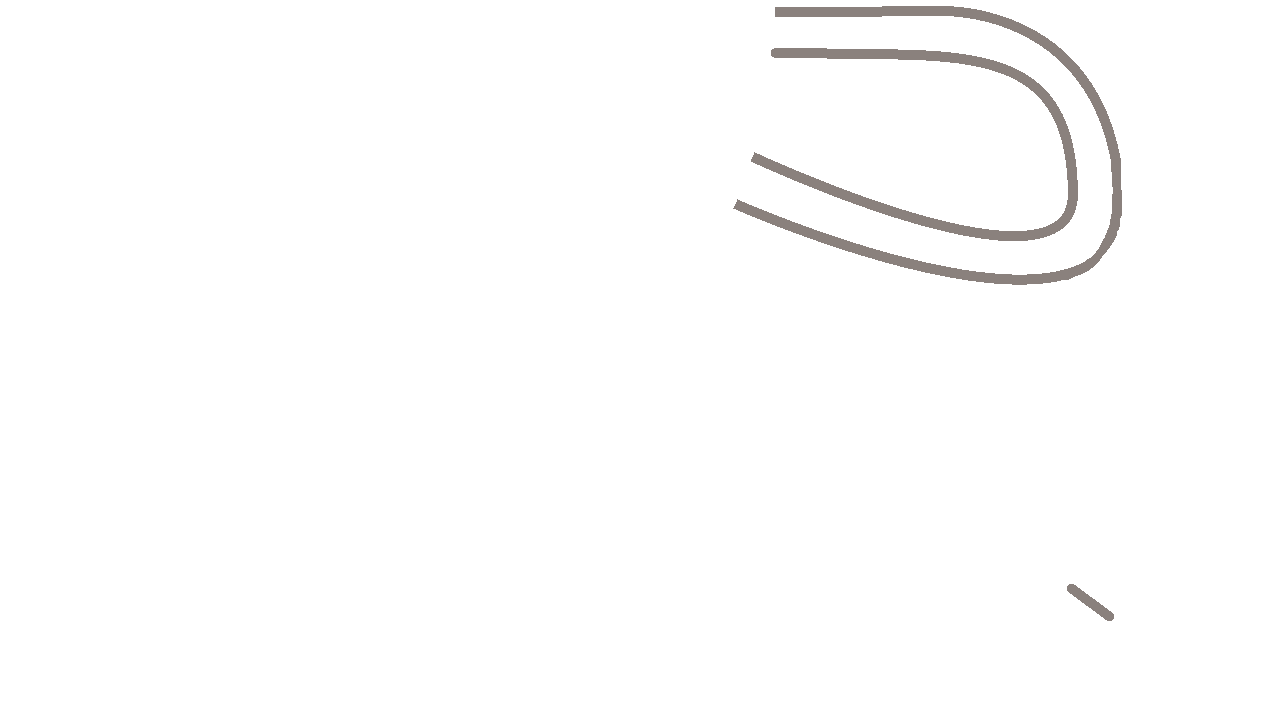
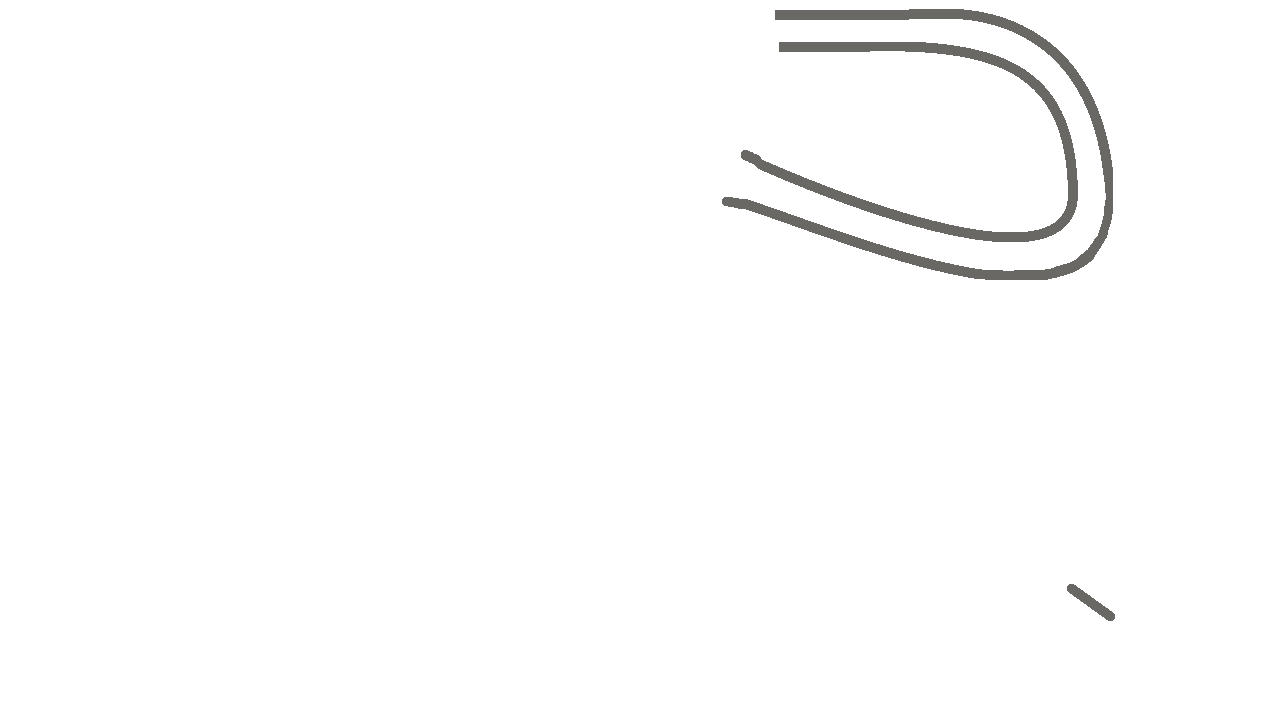
tighten rails

diff --git a/games/pinball/source/layer.h b/games/pinball/source/layer.h
@@ -30,7 +30,7 @@ class Layer {
 
         // Main table layer
         vector<float> m_launchExitLock = {1068.0, 585.4, 1066.8, 586.9, 1067.2, 589.2, 1067.5, 591.5, 1087.9, 606.2, 1108.4, 621.0, 1110.6, 621.0, 1112.8, 621.0, 1114.0, 619.6, 1115.2, 618.1, 1114.8, 615.8, 1114.5, 613.5, 1094.1, 598.8, 1073.6, 584.0, 1071.4, 584.0, 1069.2, 584.0, 1068.0, 585.4};
-        vector<float> m_upperWall = {759.0, 53.1, 749.5, 53.9, 741.5, 55.0, 733.5, 56.0, 724.0, 57.6, 714.5, 59.1, 707.5, 60.6, 700.5, 62.1, 696.5, 63.0, 692.5, 63.9, 683.0, 65.5, 673.5, 67.2, 667.0, 69.2, 660.5, 71.1, 649.5, 74.6, 638.5, 78.2, 634.0, 80.2, 629.5, 82.2, 607.3, 93.1, 585.2, 104.0, 584.2, 104.0, 580.9, 105.8, 578.5, 107.7, 574.0, 110.0, 569.5, 112.4, 564.4, 115.7, 559.2, 119.0, 558.6, 120.6, 558.0, 122.2, 558.0, 125.4, 558.0, 128.6, 560.8, 133.1, 563.6, 137.5, 567.0, 145.0, 570.4, 152.5, 573.7, 158.2, 577.1, 164.0, 579.5, 164.6, 581.9, 165.2, 588.2, 161.7, 594.5, 158.2, 601.5, 154.8, 608.5, 151.3, 611.0, 150.1, 613.5, 149.0, 616.6, 147.0, 619.7, 145.0, 629.1, 143.5, 638.5, 142.0, 646.4, 140.9, 654.2, 139.8, 669.9, 140.3, 685.5, 140.7, 694.5, 142.5, 703.5, 144.2, 711.9, 147.1, 720.3, 150.0, 721.9, 150.0, 723.5, 150.0, 732.5, 153.6, 741.5, 157.1, 746.8, 159.7, 752.1, 162.2, 756.8, 164.0, 761.5, 165.8, 766.5, 167.5, 771.5, 169.3, 774.0, 170.2, 776.5, 171.0, 780.3, 174.7, 784.2, 178.3, 783.5, 180.4, 782.9, 182.5, 782.0, 185.5, 781.2, 188.5, 779.1, 192.5, 777.0, 196.4, 777.0, 198.2, 777.0, 200.0, 775.4, 203.9, 773.9, 207.8, 770.9, 209.0, 768.0, 210.2, 763.5, 209.6, 759.0, 208.9, 757.4, 207.2, 755.7, 205.5, 751.6, 203.7, 747.5, 201.8, 737.0, 199.8, 726.5, 197.8, 719.0, 197.4, 711.5, 196.9, 704.0, 197.9, 696.5, 198.9, 688.1, 201.3, 679.7, 203.6, 673.5, 208.7, 667.3, 213.8, 661.2, 220.9, 655.1, 227.9, 650.1, 235.3, 645.1, 242.8, 640.1, 252.2, 635.0, 261.7, 635.0, 264.6, 635.0, 267.5, 661.3, 301.5, 687.5, 335.5, 690.7, 335.8, 693.9, 336.1, 710.8, 327.6, 727.7, 319.0, 738.2, 308.2, 748.6, 297.4, 753.5, 290.4, 758.3, 283.5, 764.4, 275.0, 770.5, 266.5, 778.3, 251.0, 786.2, 235.5, 794.1, 214.0, 802.1, 192.5, 803.7, 188.0, 805.2, 183.5, 810.9, 172.5, 816.5, 161.5, 821.5, 154.0, 826.5, 146.6, 832.5, 140.6, 838.5, 134.7, 846.5, 128.0, 854.5, 121.3, 860.5, 117.3, 866.5, 113.3, 872.5, 110.2, 878.5, 107.2, 884.0, 105.5, 889.5, 103.7, 927.0, 103.3, 964.5, 102.8, 972.0, 104.4, 979.5, 106.0, 986.5, 109.5, 993.5, 112.9, 999.2, 117.5, 1004.9, 122.1, 1010.0, 128.8, 1015.0, 135.5, 1017.1, 139.8, 1019.3, 144.2, 1020.8, 144.8, 1022.3, 145.3, 1040.9, 143.6, 1059.5, 141.9, 1064.8, 140.9, 1070.0, 139.9, 1070.0, 137.8, 1070.0, 135.8, 1068.4, 129.6, 1066.8, 123.5, 1063.4, 116.2, 1060.0, 108.8, 1055.6, 102.7, 1051.2, 96.5, 1043.9, 89.4, 1036.5, 82.4, 1030.5, 78.3, 1024.5, 74.3, 1016.4, 70.2, 1008.3, 66.2, 997.8, 62.6, 987.2, 59.1, 977.4, 57.1, 967.5, 55.1, 959.5, 53.9, 951.5, 52.7, 860.0, 52.5, 768.5, 52.2, 759.0, 53.1};
+        vector<float> m_upperWall = {759.0, 53.1, 749.5, 53.9, 741.5, 55.0, 733.5, 56.0, 724.0, 57.6, 714.5, 59.1, 707.5, 60.6, 700.5, 62.1, 696.5, 63.0, 692.5, 63.9, 683.0, 65.5, 673.5, 67.2, 667.0, 69.2, 660.5, 71.1, 649.5, 74.6, 638.5, 78.2, 634.0, 80.2, 629.5, 82.2, 607.3, 93.1, 585.2, 104.0, 584.2, 104.0, 580.9, 105.8, 578.5, 107.7, 574.0, 110.0, 569.5, 112.4, 564.4, 115.7, 559.2, 119.0, 558.6, 120.6, 558.0, 122.2, 558.0, 125.4, 558.0, 128.6, 560.8, 133.1, 563.6, 137.5, 567.0, 145.0, 570.4, 152.5, 573.7, 158.2, 577.1, 164.0, 579.5, 164.6, 581.9, 165.2, 588.2, 161.7, 594.5, 158.2, 601.5, 154.8, 608.5, 151.3, 611.0, 150.1, 613.5, 149.0, 616.6, 147.0, 619.7, 145.0, 629.1, 143.5, 638.5, 142.0, 646.4, 140.9, 654.2, 139.8, 669.9, 140.3, 685.5, 140.7, 694.4, 142.4, 703.3, 144.2, 718.9, 149.4, 734.5, 154.7, 740.0, 157.5, 745.5, 160.3, 750.5, 163.6, 755.5, 166.8, 762.0, 170.4, 768.5, 174.0, 775.7, 177.6, 782.9, 181.2, 782.3, 184.4, 781.7, 187.5, 779.3, 191.9, 777.0, 196.3, 777.0, 198.2, 777.0, 200.1, 775.6, 203.5, 774.1, 206.9, 767.3, 204.9, 760.5, 202.9, 749.1, 200.0, 737.8, 197.0, 723.6, 197.1, 709.5, 197.1, 703.0, 198.0, 696.5, 198.9, 688.1, 201.3, 679.7, 203.6, 673.5, 208.7, 667.3, 213.8, 661.2, 220.9, 655.1, 227.9, 650.1, 235.3, 645.1, 242.8, 640.1, 252.2, 635.0, 261.7, 635.0, 264.6, 635.0, 267.5, 661.3, 301.5, 687.5, 335.5, 690.7, 335.8, 693.9, 336.1, 710.8, 327.6, 727.7, 319.0, 738.2, 308.2, 748.6, 297.4, 753.5, 290.4, 758.3, 283.5, 764.4, 275.0, 770.5, 266.5, 778.3, 251.0, 786.2, 235.5, 794.1, 214.0, 802.1, 192.5, 803.7, 188.0, 805.2, 183.5, 810.9, 172.5, 816.5, 161.5, 821.5, 154.0, 826.5, 146.6, 832.5, 140.6, 838.5, 134.7, 846.5, 128.0, 854.5, 121.3, 860.5, 117.3, 866.5, 113.3, 872.5, 110.2, 878.5, 107.2, 884.0, 105.5, 889.5, 103.7, 927.0, 103.3, 964.5, 102.8, 972.0, 104.4, 979.5, 106.0, 986.5, 109.5, 993.5, 112.9, 999.2, 117.5, 1004.9, 122.1, 1010.0, 128.8, 1015.0, 135.5, 1017.1, 139.8, 1019.3, 144.2, 1020.8, 144.8, 1022.3, 145.3, 1040.9, 143.6, 1059.5, 141.9, 1064.8, 140.9, 1070.0, 139.9, 1070.0, 137.8, 1070.0, 135.8, 1068.4, 129.6, 1066.8, 123.5, 1063.4, 116.2, 1060.0, 108.8, 1055.6, 102.7, 1051.2, 96.5, 1043.9, 89.4, 1036.5, 82.4, 1030.5, 78.3, 1024.5, 74.3, 1016.4, 70.2, 1008.3, 66.2, 997.8, 62.6, 987.2, 59.1, 977.4, 57.1, 967.5, 55.1, 959.5, 53.9, 951.5, 52.7, 860.0, 52.5, 768.5, 52.2, 759.0, 53.1};
         vector<float> m_leftSlide = {125.0, 51.1, 122.5, 52.1, 119.7, 54.8, 116.9, 57.5, 114.5, 62.1, 112.2, 66.7, 108.9, 76.6, 105.7, 86.5, 104.4, 88.5, 103.2, 90.5, 101.5, 96.5, 99.8, 102.5, 99.5, 104.2, 99.1, 105.8, 96.4, 114.2, 93.7, 122.5, 92.8, 123.7, 91.9, 124.8, 89.5, 132.2, 87.2, 139.5, 83.5, 149.0, 79.9, 158.5, 77.5, 165.0, 75.1, 171.5, 72.6, 178.5, 70.0, 185.5, 68.8, 187.5, 67.7, 189.5, 64.3, 198.0, 61.0, 206.4, 61.8, 207.2, 62.6, 208.0, 67.5, 206.3, 72.4, 204.7, 76.6, 205.8, 80.8, 206.9, 84.6, 209.5, 88.3, 212.0, 91.5, 212.0, 94.7, 212.0, 96.7, 209.7, 98.8, 207.5, 100.8, 202.5, 102.9, 197.5, 106.5, 188.0, 110.0, 178.5, 112.5, 172.0, 115.0, 165.5, 118.5, 156.0, 122.0, 146.5, 124.5, 140.0, 127.0, 133.5, 130.5, 124.3, 134.0, 115.0, 136.1, 108.3, 138.2, 101.5, 142.2, 89.5, 146.3, 77.5, 149.0, 71.4, 151.7, 65.3, 154.1, 63.1, 156.5, 60.8, 160.0, 59.1, 163.5, 57.5, 223.4, 57.0, 283.3, 56.5, 284.3, 54.8, 285.4, 53.2, 284.1, 51.6, 282.8, 50.0, 205.1, 50.1, 127.5, 50.1, 125.0, 51.1};
         vector<float> m_rightSlide = {85.2, 461.4, 82.0, 464.8, 77.4, 466.0, 72.8, 467.3, 67.7, 465.7, 62.6, 464.0, 61.8, 464.8, 61.0, 465.6, 64.3, 474.0, 67.7, 482.5, 68.8, 484.5, 70.0, 486.5, 72.6, 493.5, 75.1, 500.5, 77.5, 507.0, 79.9, 513.5, 83.5, 523.0, 87.2, 532.5, 89.5, 539.8, 91.9, 547.2, 92.8, 548.3, 93.7, 549.5, 96.4, 557.8, 99.1, 566.2, 99.5, 567.8, 99.8, 569.5, 101.5, 575.5, 103.2, 581.5, 104.4, 583.5, 105.7, 585.5, 108.9, 595.4, 112.2, 605.3, 114.5, 609.9, 116.9, 614.5, 119.7, 617.2, 122.5, 619.9, 125.3, 620.9, 128.1, 622.0, 205.4, 622.0, 282.8, 622.0, 284.1, 620.4, 285.4, 618.8, 284.3, 617.2, 283.3, 615.5, 223.4, 615.0, 163.5, 614.5, 160.0, 612.9, 156.5, 611.2, 154.1, 608.9, 151.7, 606.7, 149.0, 600.6, 146.3, 594.5, 142.2, 582.5, 138.2, 570.5, 136.1, 563.7, 134.0, 557.0, 130.5, 547.7, 127.0, 538.5, 124.5, 532.0, 122.0, 525.5, 118.5, 516.0, 115.0, 506.5, 112.5, 500.0, 110.0, 493.5, 106.5, 484.0, 102.9, 474.5, 99.6, 466.5, 96.3, 458.5, 92.4, 458.2, 88.5, 458.0, 85.2, 461.4};
         vector<float> m_leftSlideLine = {176.9, 88.6, 175.6, 90.2, 176.7, 91.8, 177.7, 93.5, 217.5, 93.5, 257.3, 93.5, 258.3, 91.8, 259.4, 90.2, 258.1, 88.6, 256.8, 87.0, 217.5, 87.0, 178.2, 87.0, 176.9, 88.6};
@@ -42,8 +42,8 @@ class Layer {
         };
 
         // Layer 2 shapes.
-        vector<float> m_innerRails = {772.8, 49.0, 771.0, 50.1, 771.0, 53.0, 771.0, 55.9, 772.8, 56.9, 774.5, 57.8, 830.0, 58.4, 885.5, 59.1, 911.0, 60.1, 936.5, 61.0, 949.9, 62.5, 963.3, 64.0, 975.6, 66.5, 987.8, 69.0, 998.9, 72.9, 1010.1, 76.8, 1017.6, 81.1, 1025.1, 85.4, 1031.6, 90.8, 1038.1, 96.1, 1042.8, 102.1, 1047.5, 108.1, 1051.7, 115.8, 1056.0, 123.5, 1059.0, 132.6, 1062.0, 141.6, 1064.0, 151.6, 1065.9, 161.5, 1067.1, 174.9, 1068.3, 188.4, 1067.7, 195.9, 1067.1, 203.5, 1065.5, 208.1, 1063.9, 212.8, 1060.4, 216.9, 1056.9, 220.9, 1049.7, 224.5, 1042.5, 228.0, 1033.6, 229.5, 1024.7, 231.0, 1013.6, 231.0, 1002.5, 231.0, 993.5, 230.0, 984.5, 229.0, 972.5, 226.9, 960.5, 224.9, 944.2, 221.0, 927.9, 217.0, 917.2, 213.9, 906.5, 210.8, 888.0, 204.8, 869.5, 198.7, 852.5, 192.5, 835.5, 186.2, 815.5, 178.2, 795.5, 170.2, 780.5, 163.7, 765.5, 157.2, 760.0, 154.7, 754.4, 152.2, 752.6, 156.7, 750.8, 161.1, 770.1, 170.1, 788.5, 178.1, 813.0, 188.0, 837.5, 197.8, 860.1, 205.9, 882.7, 213.9, 901.1, 219.5, 919.5, 225.1, 937.5, 229.6, 955.5, 234.1, 969.0, 236.4, 982.5, 238.8, 993.8, 240.0, 1005.1, 241.3, 1019.3, 240.7, 1033.5, 240.2, 1041.2, 238.1, 1048.9, 236.1, 1054.6, 233.3, 1060.3, 230.5, 1064.9, 226.4, 1069.6, 222.2, 1072.3, 217.3, 1074.9, 212.3, 1076.5, 205.9, 1078.0, 199.5, 1078.0, 192.0, 1078.0, 184.5, 1076.9, 172.5, 1075.9, 160.5, 1073.5, 148.3, 1071.0, 136.2, 1068.4, 128.8, 1065.8, 121.5, 1062.3, 114.6, 1058.9, 107.7, 1055.2, 102.1, 1051.6, 96.5, 1044.0, 88.9, 1036.5, 81.3, 1030.5, 77.3, 1024.5, 73.3, 1017.2, 69.6, 1009.8, 65.9, 999.7, 62.5, 989.5, 59.1, 977.0, 56.6, 964.5, 54.1, 951.0, 52.6, 937.5, 51.0, 911.5, 50.1, 885.5, 49.1, 830.0, 48.5, 774.5, 47.9, 772.8, 49.0};
-        vector<float> m_outerRails = {828.8, 6.7, 775.0, 7.0, 775.0, 12.2, 775.0, 17.3, 862.8, 16.6, 950.5, 15.9, 962.5, 17.5, 974.5, 19.1, 986.1, 22.0, 997.7, 24.9, 1008.1, 29.0, 1018.5, 33.1, 1026.0, 37.1, 1033.5, 41.2, 1041.9, 46.8, 1050.2, 52.4, 1060.1, 61.8, 1070.0, 71.2, 1076.8, 80.4, 1083.7, 89.5, 1087.4, 95.7, 1091.1, 101.9, 1094.9, 110.2, 1098.7, 118.5, 1101.5, 126.0, 1104.2, 133.5, 1107.1, 144.5, 1110.1, 155.5, 1111.4, 172.6, 1112.8, 189.8, 1111.9, 203.6, 1111.1, 217.5, 1110.1, 222.0, 1109.1, 226.5, 1107.5, 230.5, 1105.8, 234.5, 1102.3, 241.5, 1098.7, 248.5, 1095.8, 252.3, 1092.8, 256.0, 1087.5, 259.5, 1082.2, 263.1, 1076.3, 265.5, 1070.4, 267.9, 1062.4, 269.9, 1054.5, 271.9, 1046.5, 272.9, 1038.5, 273.9, 1029.0, 274.5, 1019.5, 275.1, 1003.6, 274.0, 987.6, 272.9, 976.1, 271.5, 964.5, 270.0, 946.0, 266.4, 927.5, 262.9, 909.5, 258.4, 891.5, 253.9, 877.5, 249.8, 863.5, 245.8, 845.0, 239.8, 826.5, 233.8, 807.0, 226.8, 787.5, 219.8, 765.0, 210.8, 742.5, 201.8, 740.1, 200.5, 737.6, 199.2, 735.5, 203.9, 733.4, 208.5, 737.4, 210.3, 741.3, 212.1, 760.9, 219.9, 780.5, 227.8, 804.0, 236.3, 827.5, 244.8, 845.0, 250.4, 862.5, 255.9, 878.0, 260.4, 893.5, 264.8, 908.5, 268.5, 923.5, 272.2, 935.4, 274.6, 947.3, 277.0, 958.9, 279.0, 970.5, 280.9, 984.5, 282.6, 998.5, 284.2, 1019.0, 284.2, 1039.5, 284.2, 1050.0, 282.5, 1060.5, 280.8, 1065.0, 280.0, 1069.5, 279.2, 1077.9, 275.6, 1086.3, 272.0, 1090.2, 269.4, 1094.0, 266.7, 1097.3, 263.0, 1100.5, 259.3, 1105.3, 253.3, 1110.0, 247.2, 1113.5, 241.4, 1117.0, 235.6, 1117.0, 233.9, 1117.0, 232.2, 1118.5, 229.4, 1120.0, 226.5, 1120.0, 223.1, 1120.0, 219.6, 1121.1, 216.5, 1122.2, 213.5, 1121.2, 184.0, 1120.2, 154.5, 1117.6, 144.5, 1114.9, 134.5, 1111.9, 125.5, 1108.8, 116.5, 1103.9, 106.2, 1099.0, 95.8, 1095.3, 89.7, 1091.7, 83.5, 1084.9, 74.4, 1078.1, 65.3, 1067.2, 54.8, 1056.2, 44.4, 1046.0, 37.6, 1035.8, 30.8, 1023.7, 25.0, 1011.5, 19.2, 1000.0, 15.6, 988.5, 11.9, 979.0, 10.0, 969.5, 8.1, 959.8, 7.1, 950.1, 6.0, 916.3, 6.2, 882.5, 6.5, 828.8, 6.7};
+        vector<float> m_innerRails = {779.0, 47.2, 779.0, 52.3, 839.8, 51.7, 900.5, 51.2, 917.0, 52.1, 933.5, 53.0, 946.0, 54.6, 958.5, 56.1, 969.9, 58.6, 981.3, 61.2, 991.4, 64.7, 1001.5, 68.2, 1009.7, 72.5, 1018.0, 76.9, 1023.9, 81.4, 1029.8, 85.9, 1035.4, 91.7, 1041.1, 97.5, 1045.4, 104.0, 1049.8, 110.5, 1052.9, 116.8, 1056.1, 123.2, 1059.0, 132.0, 1061.9, 140.9, 1063.9, 151.2, 1065.9, 161.5, 1067.1, 174.9, 1068.3, 188.4, 1067.8, 196.5, 1067.2, 204.7, 1065.2, 209.3, 1063.2, 213.9, 1059.1, 218.2, 1055.1, 222.6, 1049.6, 225.3, 1044.1, 228.0, 1037.8, 229.8, 1031.5, 231.5, 1008.5, 231.4, 985.5, 231.3, 970.8, 228.7, 956.1, 226.1, 943.3, 223.1, 930.5, 220.1, 917.5, 216.5, 904.5, 213.0, 885.5, 206.9, 866.5, 200.8, 848.5, 194.3, 830.5, 187.8, 808.5, 179.0, 786.5, 170.2, 774.5, 165.0, 762.5, 159.9, 760.5, 157.5, 758.5, 155.2, 752.7, 152.6, 746.9, 150.0, 745.1, 150.0, 743.2, 150.0, 742.1, 151.4, 740.9, 152.9, 741.2, 155.7, 741.5, 158.5, 747.7, 161.5, 753.9, 164.5, 756.2, 166.8, 758.6, 169.0, 768.1, 173.1, 777.5, 177.2, 794.0, 184.0, 810.5, 190.7, 827.0, 197.0, 843.5, 203.2, 860.0, 209.0, 876.5, 214.8, 895.0, 220.3, 913.5, 225.9, 927.5, 229.5, 941.5, 233.1, 956.2, 236.0, 970.9, 239.0, 983.2, 240.5, 995.4, 242.0, 1011.5, 242.0, 1027.5, 242.0, 1036.8, 240.1, 1046.1, 238.1, 1053.5, 234.5, 1060.9, 230.8, 1066.0, 225.4, 1071.1, 220.0, 1073.5, 214.7, 1076.0, 209.4, 1077.0, 204.0, 1078.0, 198.7, 1078.0, 191.6, 1078.0, 184.5, 1077.0, 173.0, 1075.9, 161.5, 1073.9, 150.5, 1071.9, 139.6, 1068.8, 130.0, 1065.8, 120.5, 1061.3, 111.5, 1056.8, 102.5, 1052.3, 96.2, 1047.8, 89.8, 1042.1, 84.1, 1036.5, 78.4, 1029.7, 73.2, 1022.8, 68.1, 1013.2, 63.2, 1003.5, 58.2, 996.2, 55.6, 988.9, 53.0, 979.1, 50.5, 969.3, 48.0, 956.9, 46.1, 944.5, 44.1, 933.0, 43.0, 921.5, 42.0, 850.3, 42.0, 779.0, 42.0, 779.0, 47.2};
+        vector<float> m_outerRails = {842.3, 9.7, 775.0, 10.0, 775.0, 15.1, 775.0, 20.3, 872.3, 19.9, 969.5, 19.5, 980.0, 21.8, 990.5, 24.1, 1000.7, 27.5, 1010.8, 30.9, 1018.7, 34.9, 1026.6, 38.8, 1036.1, 45.1, 1045.5, 51.4, 1055.0, 61.0, 1064.5, 70.5, 1070.8, 79.8, 1077.2, 89.1, 1082.5, 99.8, 1087.8, 110.5, 1091.3, 120.6, 1094.8, 130.7, 1097.5, 141.4, 1100.1, 152.2, 1102.6, 168.7, 1105.0, 185.2, 1105.2, 193.4, 1105.4, 201.5, 1104.3, 210.0, 1103.1, 218.5, 1100.5, 227.0, 1097.8, 235.5, 1096.1, 237.5, 1094.4, 239.5, 1091.0, 244.5, 1087.6, 249.5, 1081.2, 254.9, 1074.7, 260.3, 1070.1, 262.1, 1065.5, 263.9, 1057.0, 266.6, 1048.5, 269.3, 1028.0, 270.0, 1007.5, 270.8, 992.5, 270.0, 977.5, 269.2, 962.0, 266.1, 946.5, 262.9, 930.8, 259.0, 915.1, 255.0, 899.7, 250.5, 884.3, 246.1, 865.4, 239.9, 846.5, 233.8, 796.5, 216.5, 746.5, 199.2, 736.1, 197.9, 725.8, 196.6, 724.1, 197.7, 722.5, 198.7, 722.2, 200.9, 721.8, 203.1, 722.9, 204.4, 724.0, 205.7, 733.8, 207.4, 743.5, 209.0, 767.0, 216.9, 790.5, 224.8, 822.5, 236.0, 854.5, 247.1, 875.0, 253.5, 895.5, 259.8, 908.5, 263.5, 921.5, 267.2, 935.5, 270.5, 949.5, 273.8, 963.0, 276.6, 976.5, 279.3, 1011.0, 279.8, 1045.5, 280.2, 1055.6, 277.7, 1065.6, 275.1, 1071.2, 273.0, 1076.8, 270.9, 1084.6, 265.7, 1092.4, 260.5, 1099.6, 249.0, 1106.8, 237.5, 1108.5, 231.0, 1110.3, 224.5, 1111.6, 218.5, 1113.0, 212.5, 1113.0, 190.9, 1113.0, 169.3, 1110.9, 157.0, 1108.8, 144.8, 1105.5, 132.6, 1102.2, 120.4, 1098.4, 111.0, 1094.7, 101.5, 1090.9, 93.9, 1087.1, 86.3, 1079.9, 75.4, 1072.6, 64.5, 1062.0, 54.0, 1051.5, 43.5, 1042.5, 37.4, 1033.5, 31.2, 1024.4, 26.7, 1015.4, 22.1, 1007.4, 19.2, 999.5, 16.3, 990.7, 14.1, 981.9, 11.9, 971.7, 10.5, 961.5, 9.0, 935.5, 9.3, 909.5, 9.5, 842.3, 9.7};
         vector<vector<float>> m_layer2ShapeData = {
             m_innerRails, m_outerRails
         };

diff --git a/games/pinball/source/ramp.h b/games/pinball/source/ramp.h
@@ -28,8 +28,8 @@ class Ramp {
         b2Fixture* m_fixture;
         int m_layerID;
         vector<float> m_launchTubeExitSensor = {1080.3, 555.2, 1078.3, 557.5, 1074.7, 563.0, 1071.1, 568.5, 1064.1, 575.6, 1057.0, 582.7, 1057.0, 585.2, 1057.0, 587.6, 1058.2, 588.8, 1059.4, 590.0, 1061.7, 590.0, 1064.0, 590.0, 1071.4, 582.6, 1078.8, 575.1, 1083.0, 569.0, 1087.1, 562.9, 1091.8, 565.6, 1096.5, 568.3, 1101.0, 570.8, 1105.5, 573.3, 1107.5, 574.4, 1109.5, 575.6, 1114.0, 578.4, 1118.5, 581.2, 1121.2, 583.1, 1123.9, 585.0, 1125.8, 585.0, 1127.6, 585.0, 1128.8, 583.8, 1130.0, 582.6, 1130.0, 580.4, 1130.0, 578.2, 1125.6, 574.6, 1121.1, 571.0, 1110.8, 564.8, 1100.5, 558.7, 1095.2, 555.9, 1090.0, 553.0, 1086.2, 553.0, 1082.3, 553.0, 1080.3, 555.2};
-        vector<float> m_ramp1 = {767.6, 169.2, 766.1, 171.5, 765.5, 174.5, 764.8, 177.5, 761.5, 187.0, 758.2, 196.5, 756.9, 204.4, 755.6, 212.2, 757.9, 214.1, 760.2, 216.0, 763.9, 216.0, 767.6, 216.0, 770.6, 213.2, 773.7, 210.5, 777.8, 201.5, 781.8, 192.5, 783.4, 186.4, 785.0, 180.2, 785.0, 177.1, 785.0, 173.9, 783.1, 171.9, 781.2, 169.8, 778.5, 168.4, 775.8, 167.0, 772.4, 167.0, 769.0, 167.0, 767.6, 169.2};
-        vector<float> m_ramp1Down = {753.6, 159.1, 751.8, 160.2, 749.0, 166.4, 746.3, 172.5, 745.6, 176.5, 744.9, 180.5, 743.3, 185.0, 741.6, 189.5, 740.4, 191.5, 739.2, 193.5, 737.5, 199.2, 735.9, 205.0, 736.4, 206.8, 737.0, 208.6, 740.6, 210.3, 744.1, 212.0, 748.0, 211.0, 751.9, 209.9, 752.9, 206.2, 753.9, 202.5, 754.5, 196.5, 755.2, 190.5, 759.1, 178.9, 763.0, 167.3, 763.0, 165.2, 763.0, 163.1, 760.5, 160.5, 757.9, 158.0, 756.7, 158.0, 755.5, 158.1, 753.6, 159.1};
+        vector<float> m_ramp1 = {759.2, 162.2, 758.2, 163.5, 757.0, 168.0, 755.9, 172.5, 753.8, 179.0, 751.8, 185.5, 747.8, 194.2, 743.9, 203.0, 744.2, 206.6, 744.5, 210.3, 747.5, 212.0, 750.5, 213.6, 756.4, 214.8, 762.3, 216.0, 765.0, 216.0, 767.6, 216.0, 770.6, 213.2, 773.7, 210.5, 777.8, 201.5, 781.8, 192.5, 783.4, 186.4, 785.0, 180.2, 785.0, 176.6, 785.0, 173.0, 782.5, 170.9, 781.5, 168.8, 777.5, 166.8, 773.5, 164.7, 771.8, 163.9, 770.0, 163.0, 768.1, 163.0, 766.1, 163.0, 765.5, 162.0, 764.9, 161.0, 762.6, 161.0, 760.2, 161.0, 759.2, 162.2};
+        vector<float> m_ramp1Down = {737.6, 154.1, 735.8, 155.2, 733.0, 161.4, 730.3, 167.5, 729.6, 171.5, 728.9, 175.5, 727.3, 180.0, 725.6, 184.5, 724.4, 186.5, 723.2, 188.5, 721.5, 194.2, 719.9, 200.0, 720.4, 201.8, 721.0, 203.6, 724.6, 205.3, 728.1, 207.0, 732.0, 206.0, 735.9, 204.9, 736.9, 201.2, 737.9, 197.5, 738.5, 191.5, 739.2, 185.5, 743.1, 173.9, 747.0, 162.3, 747.0, 160.2, 747.0, 158.1, 744.5, 155.5, 741.9, 153.0, 740.7, 153.0, 739.5, 153.1, 737.6, 154.1};
         vector<float> m_hole1 = {791.6, 8.6, 790.0, 10.1, 790.0, 32.0, 790.0, 53.9, 791.6, 55.4, 793.1, 57.0, 794.5, 57.0, 795.9, 57.0, 797.4, 55.4, 799.0, 53.9, 799.0, 32.0, 799.0, 10.1, 797.4, 8.6, 795.9, 7.0, 794.5, 7.0, 793.1, 7.0, 791.6, 8.6 };
         // Access this vector by index of rampID to get the 2 collisions shapes for that ramp
         vector<vector<float>> m_rampShapes = {
